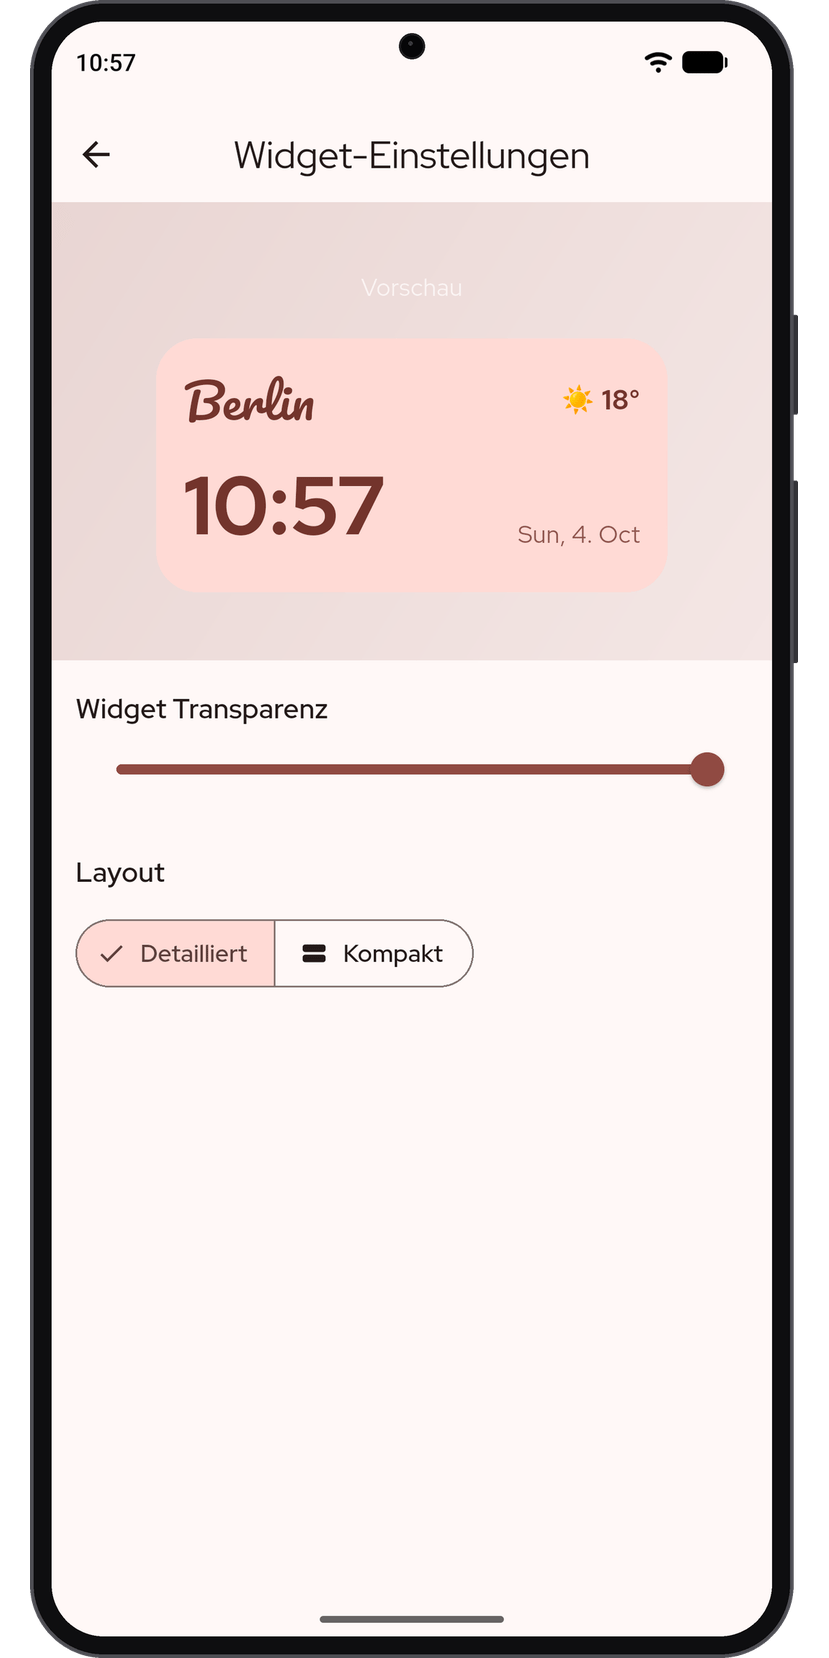
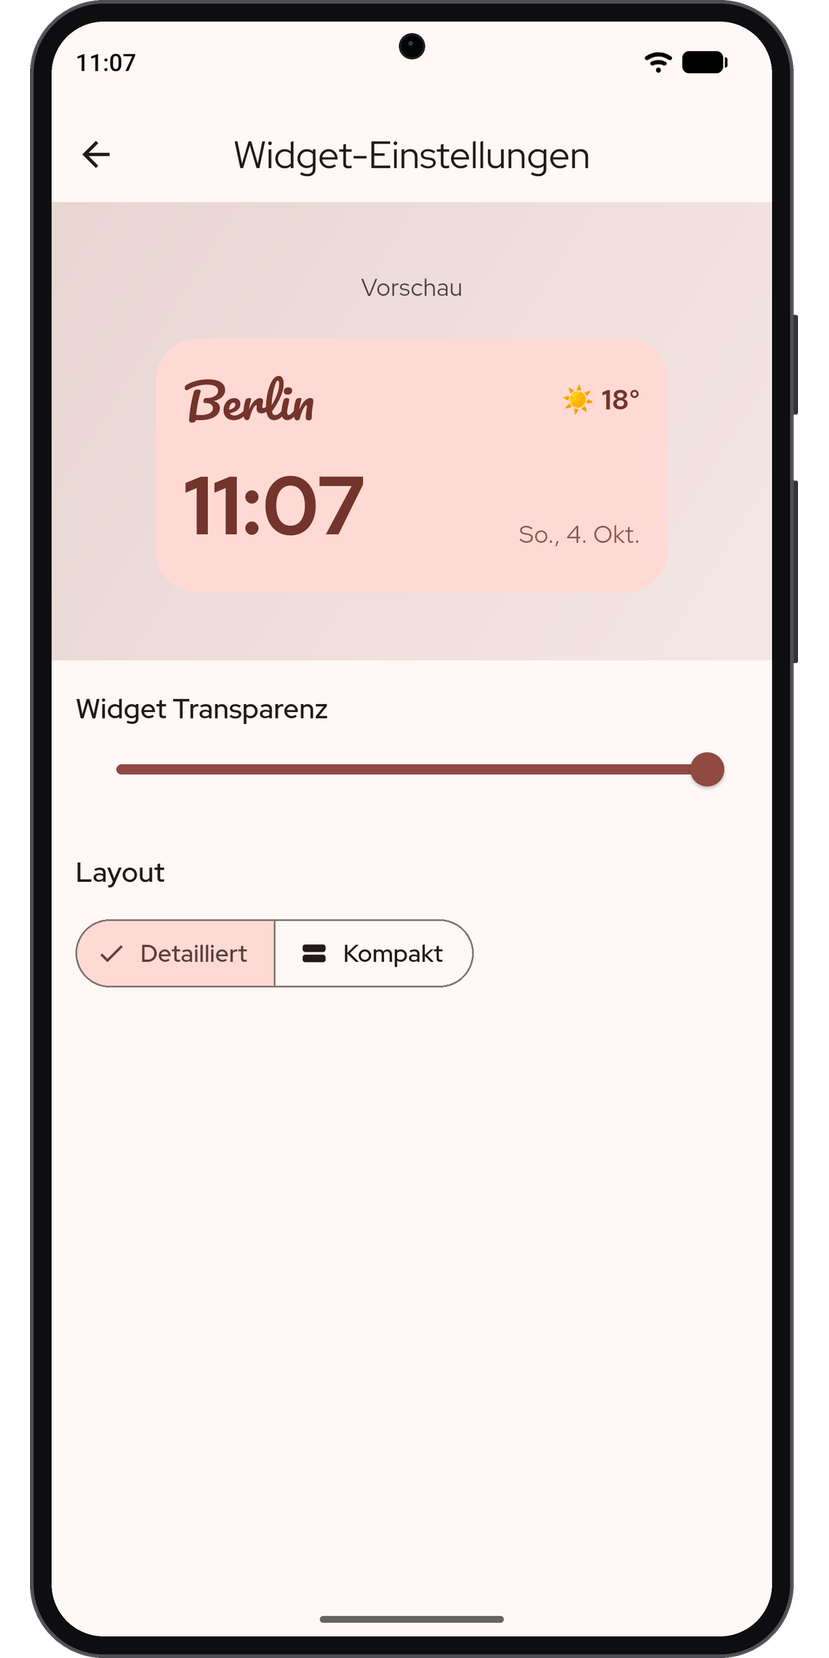
docs: Play Store screenshots in the repo, README screenshot grid
- docs/play-store-screenshots/<locale>: JPEG versions without
  transparency for the Play Console (fastlane/metadata keeps the
  transparent PNGs used by F-Droid and IzzyOnDroid)
- Widget settings screenshot retaken with the readable, localized
  preview
- README shows the screenshots in a 4x2 grid with captions

diff --git a/README.md b/README.md
@@ -30,16 +30,20 @@ World Clock is a Flutter app that displays the current time and weather for vari
 
 ## Screenshots
 
-<p align="center">
-<img src="fastlane/metadata/android/en-US/images/phoneScreenshots/screenshot_01_light_dark.png" alt="Screenshot light and dark mode" height="350"/>
-<img src="fastlane/metadata/android/en-US/images/phoneScreenshots/screenshot_02_forecast.png" alt="Screenshot weather forecast" height="350"/>
-<img src="fastlane/metadata/android/en-US/images/phoneScreenshots/screenshot_03_world_map.png" alt="Screenshot world map with day and night" height="350"/>
-<img src="fastlane/metadata/android/en-US/images/phoneScreenshots/screenshot_04_city_search.png" alt="Screenshot city search" height="350"/>
-<img src="fastlane/metadata/android/en-US/images/phoneScreenshots/screenshot_05_custom_city.png" alt="Screenshot custom city" height="350"/>
-<img src="fastlane/metadata/android/en-US/images/phoneScreenshots/screenshot_06_settings.png" alt="Screenshot settings" height="350"/>
-<img src="fastlane/metadata/android/en-US/images/phoneScreenshots/screenshot_07_widget_settings.png" alt="Screenshot widget settings" height="350"/>
-<img src="fastlane/metadata/android/en-US/images/phoneScreenshots/screenshot_08_widget.png" alt="Screenshot home screen widget" height="350"/>
-</p>
+<table align="center">
+  <tr>
+    <td align="center"><img src="fastlane/metadata/android/en-US/images/phoneScreenshots/screenshot_01_light_dark.png" alt="Screenshot: Light and dark mode" width="180"/><br/><sub>Light and dark mode</sub></td>
+    <td align="center"><img src="fastlane/metadata/android/en-US/images/phoneScreenshots/screenshot_02_forecast.png" alt="Screenshot: Weather forecast" width="180"/><br/><sub>Weather forecast</sub></td>
+    <td align="center"><img src="fastlane/metadata/android/en-US/images/phoneScreenshots/screenshot_03_world_map.png" alt="Screenshot: World map with day and night" width="180"/><br/><sub>World map with day and night</sub></td>
+    <td align="center"><img src="fastlane/metadata/android/en-US/images/phoneScreenshots/screenshot_04_city_search.png" alt="Screenshot: City search" width="180"/><br/><sub>City search</sub></td>
+  </tr>
+  <tr>
+    <td align="center"><img src="fastlane/metadata/android/en-US/images/phoneScreenshots/screenshot_05_custom_city.png" alt="Screenshot: Custom cities" width="180"/><br/><sub>Custom cities</sub></td>
+    <td align="center"><img src="fastlane/metadata/android/en-US/images/phoneScreenshots/screenshot_06_settings.png" alt="Screenshot: Settings and custom colors" width="180"/><br/><sub>Settings and custom colors</sub></td>
+    <td align="center"><img src="fastlane/metadata/android/en-US/images/phoneScreenshots/screenshot_07_widget_settings.png" alt="Screenshot: Widget settings" width="180"/><br/><sub>Widget settings</sub></td>
+    <td align="center"><img src="fastlane/metadata/android/en-US/images/phoneScreenshots/screenshot_08_widget.png" alt="Screenshot: Home screen widget" width="180"/><br/><sub>Home screen widget</sub></td>
+  </tr>
+</table>
 
 ## Contributing
 
